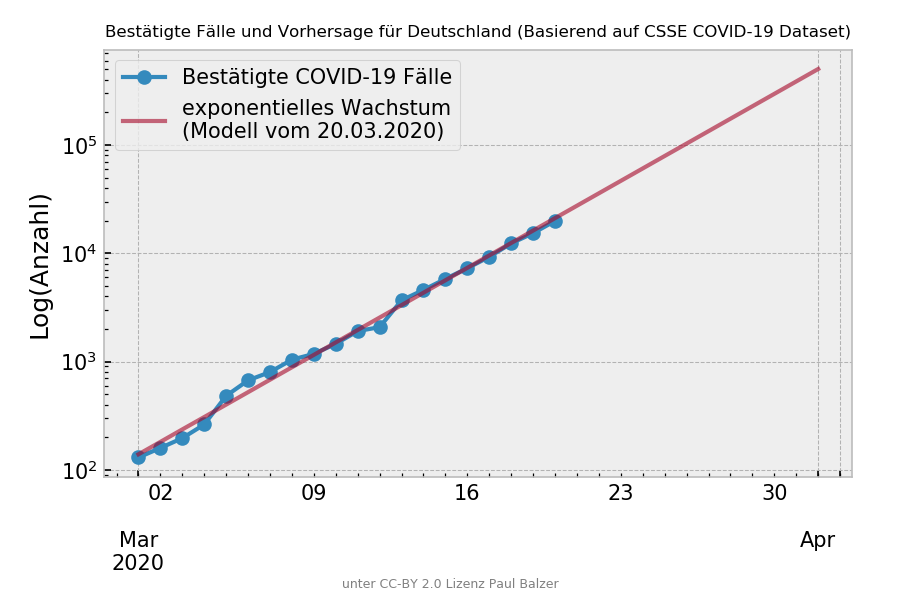
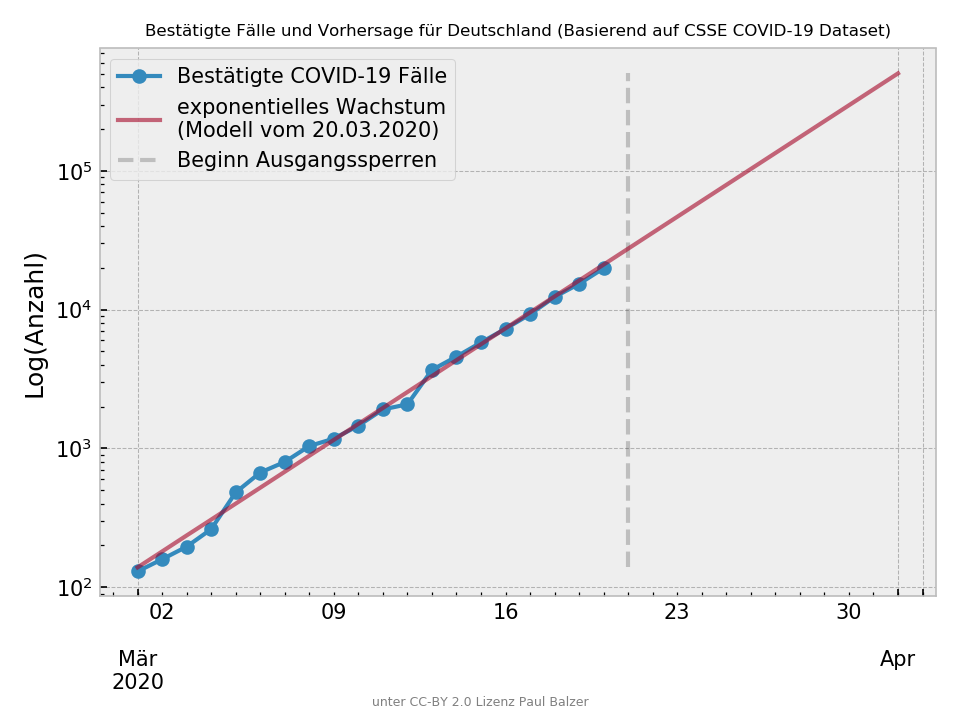
Add some comments

diff --git a/html/index.html b/html/index.html
@@ -8,7 +8,7 @@
   <head>
     
       <meta charset="utf-8">
-      <title>Covid19 Prediction Germany</title>
+      <title>COVID-19 Prediction Germany</title>
       
       
         
@@ -37,14 +37,14 @@
           
           
             
-              <div class="bk-root" id="5af60fb7-7af8-4ab5-880e-e86ff60d2383" data-root-id="1156"></div>
+              <div class="bk-root" id="c37efe90-3e36-4b83-9403-66e5fe52045d" data-root-id="1158"></div>
             
           
         
       
       
-        <script type="application/json" id="1325">
[1 lines of base64/hex data omitted]
+        <script type="application/json" id="1327">
[1 lines of base64/hex data omitted]
         </script>
         <script type="text/javascript">
           (function() {
@@ -53,8 +53,8 @@
                 (function(root) {
                   function embed_document(root) {
                     
-                  var docs_json = document.getElementById('1325').textContent;
-                  var render_items = [{"docid":"5bbed375-81aa-40b0-ad4d-a50926d264f3","roots":{"1156":"5af60fb7-7af8-4ab5-880e-e86ff60d2383"}}];
+                  var docs_json = document.getElementById('1327').textContent;
+                  var render_items = [{"docid":"0634cb76-eab7-42f7-9295-d7bd4a1cdeab","roots":{"1158":"c37efe90-3e36-4b83-9403-66e5fe52045d"}}];
                   root.Bokeh.embed.embed_items(docs_json, render_items);
                 
                   }

diff --git a/predict.py b/predict.py
@@ -27,6 +27,7 @@ url = 'https://raw.githubusercontent.com'
 url += '/CSSEGISandData/COVID-19'
 url += '/master/csse_covid_19_data/csse_covid_19_time_series'
 url += '/time_series_19-covid-Confirmed.csv'
+print('Downloading from %s' % url)
 
 
 # In[3]:
@@ -86,16 +87,47 @@ ger_confirmed['days'] = (ger_confirmed.index - ger_confirmed.index.min()).days
 ger_confirmed.head()
 
 
-# ## Prediction Model
+# ## Ausgangssperren
+# 
+# Am Wochenende 20.03./21.03.2020 haben einige Gemeinden und Städte Ausgangssperren verhängt (z.B. [Dresden](https://www.dresden.de/media/pdf/presseamt/Allgemeinverfuegung.pdf), Mitterteich, ganz Bayern usw). Daher werden wir uns das Datum mal merken.
 
 # In[11]:
+
+
+import time
+import datetime
+
+
+# In[12]:
+
+
+ausgangssperren_timestamp = datetime.date(2020, 3, 21)
+
+
+# In[13]:
+
+
+ausgangssperren_timestamp_epoch = time.mktime(ausgangssperren_timestamp.timetuple())*1000
+
+
+# ## Prediction Model
+# 
+# Ein exponentielles Wachstum (freie Ansteckung) verläuft nach:
+# 
+# $y = A e^{Bx}$
+# 
+# Wenn wir das logarithmieren mit dem Log zur Basis $e$, haben wir ein lineares Modell.
+# 
+# $\log_e(y) = B x + \log_e (A)$
+
+# In[14]:
 
 
 from sklearn.linear_model import LinearRegression
 import numpy as np
 
 
-# In[12]:
+# In[15]:
 
 
 X = ger_confirmed['days'].values.reshape(-1, 1)
@@ -105,46 +137,65 @@ logy = np.log(y)
 
 # ### Train
 
-# In[13]:
+# In[16]:
 
 
 clf = LinearRegression()
 clf.fit(X, logy)
 
 
-# In[14]:
+# In[17]:
 
 
 logy_pred = clf.predict(X)
+
+
+# Die mit dem linearen Modell vorhergesagten Werte sind im logarithmischen, müssen mit der $e^y$ noch zurück konvertiert werden.
+
+# In[18]:
+
+
 ger_confirmed['predicted'] = np.exp(logy_pred).astype('int')
 
 
-# In[15]:
+# In[19]:
 
 
 ger_confirmed.tail()
 
 
+# ### Modelparameter
+
+# In[20]:
+
+
+B = clf.coef_[0]
+A = np.exp(clf.intercept_)
+print('Modellparameter sind A=%.1f, B=%.3f' % (A, B))
+
+
 # ## Save the model for later use
 
-# In[16]:
+# In[21]:
 
 
 import pickle
 
 with open('%s-Germany-Covid19-Prediction-Model.pkl' % today.strftime('%Y-%m-%d'), 'wb') as f:
     pickle.dump(clf, f)
+    
+print('Saved the Model')
 
 
 # ## Future
 
-# In[17]:
+# In[22]:
 
 
 fd = 13 # days into the future
 
 
-# In[18]:
+# In[23]:
 
 
 # Create DataFrame in the Future
@@ -154,7 +205,7 @@ days_in_future = ger_confirmed.days[-1] + np.arange(1, fd)
 future = pd.DataFrame(data=days_in_future, index=dates, columns=['days'])
 
 
-# In[19]:
+# In[24]:
 
 
 ger_future = ger_confirmed.append(future, sort=True)
@@ -162,20 +213,20 @@ ger_future = ger_confirmed.append(future, sort=True)
 
 # ### Predict the Future
 
-# In[20]:
+# In[25]:
 
 
 X_future = ger_future['days'].values.reshape(-1, 1)
 
 
-# In[21]:
+# In[26]:
 
 
 logy_pred = clf.predict(X_future)
 ger_future['predicted'] = np.exp(logy_pred).astype('int')
 
 
-# In[22]:
+# In[27]:
 
 
 ger_future
@@ -183,18 +234,23 @@ ger_future
 
 # ## Future Plot
 
-# In[23]:
+# In[28]:
 
 
 title = 'Bestätigte Fälle und Vorhersage für Deutschland (Basierend auf CSSE COVID-19 Dataset)'
 
 
-# In[24]:
+# In[29]:
 
 
 ax = ger_future['confirmed'].plot(label='Bestätigte COVID-19 Fälle', marker='o')
 ax = ger_future['predicted'].plot(label='exponentielles Wachstum\n(Modell vom %s)' % today.strftime('%d.%m.%Y'),
                                   alpha=0.6, ax=ax)
+
+ax.vlines(ausgangssperren_timestamp,
+          ymin=ger_future.predicted.min(),
+          ymax=ger_future.predicted.max(),
+          linestyle='--', alpha=0.2, label='Beginn Ausgangssperren')
 
 ax.legend()
 ax.set_ylabel('Log(Anzahl)')
@@ -204,31 +260,33 @@ ax.annotate('unter CC-BY 2.0 Lizenz Paul Balzer', xy=(.5, 0.02), xycoords='figur
 
 plt.tight_layout()
 plt.savefig('./%s-Germany-Covid19-Prediction.png' % today.strftime('%Y-%m-%d'), dpi=150)
+print('Saved the Figure')
 
 
 # ## Export as Excel
 
-# In[25]:
+# In[30]:
 
 
 ger_future.to_excel('./%s-Germany-Covid19-Prediction.xlsx' % today.strftime('%Y-%m-%d'))
+print('Saved the Excel')
 
 
 # # Interactive Website
 # 
 # We are using Bokeh to export an interactive website
 
-# In[26]:
+# In[31]:
 
 
 from bokeh.plotting import figure
 from bokeh.models.formatters import DatetimeTickFormatter
-from bokeh.models import Div, HoverTool, BoxAnnotation
+from bokeh.models import Div, HoverTool, BoxAnnotation, Span
 from bokeh.layouts import column
 from bokeh.io import output_file, save
 
 
-# In[27]:
+# In[32]:
 
 
 p = figure(tools="hover,save,pan,box_zoom,reset,wheel_zoom",
@@ -250,9 +308,6 @@ p.xaxis.formatter=DatetimeTickFormatter(
     days="%A %d.%m.%Y",
 )
 
-# Legende
-p.legend.location = "top_left"
-
 # Daten-Zeitraum
 gray_box = BoxAnnotation(left=ger_confirmed.index[0],
                           right=ger_confirmed.index[-1],
@@ -267,13 +322,27 @@ p.select_one(HoverTool).tooltips = [
 p.select_one(HoverTool).formatters = {'x':'datetime'}
 p.select_one(HoverTool).mode = 'vline'
 
+# Vertical line for Ausgangssperren
+vline = Span(location=ausgangssperren_timestamp_epoch,
+             dimension='height', line_color='gray',
+             line_dash='dashed', line_width=3, name='Beginn Ausgangssperren')
+p.add_layout(vline)
+
+p.toolbar.autohide = True
+
+# Legende
+p.legend.location = "top_left"
+
 # Anmerkung
-div = Div(text="""Quellcode: <a href="https://github.com/balzer82/covid-germany-predictor">Covid Germany Predictor</a> unter CC-BY2.0 Lizenz on Github.""")
+div = Div(text="""Quellcode: <a href="https://github.com/balzer82/covid-germany-predictor">Covid Germany Predictor</a>
+            unter CC-BY2.0 Lizenz von Paul Balzer on Github.
+            Disclaimer: Ich bin kein Epidemiologe oder Virologe, also kein Experte!""")
 
 # Save
-output_file("./html/index.html", title='Covid19 Prediction Germany')
+output_file("./html/index.html", title='COVID-19 Prediction Germany')
 
 save(column(p, div, sizing_mode="stretch_both"))
+print('Saved the html')
 
 
 # CC-BY 2.0 Paul Balzer

diff --git a/README.md b/README.md
@@ -8,7 +8,7 @@ Siehe NRD Podcast mit Prof. Drosten [#18 - Die Wirksamkeit von Ausgangssperren i
 
 ## Datenbasis
 
-Die Daten werden aus dem [2019 Novel Coronavirus COVID-19 (2019-nCoV) Data Repository by Johns Hopkins CSSE](https://github.com/CSSEGISandData/COVID-19) geladen.
+Die Daten werden aus dem [2019 Novel Coronavirus COVID-19 (2019-nCoV) Data Repository by Johns Hopkins CSSE](https://github.com/CSSEGISandData/COVID-19) geladen. Mit den Ansteckungszahlen wird ein exponentielles Modell trainiert, welches die Daten optimal abbildet. Damit werden Vorhersagen zur Verbreitung in den nächsten Tagen getroffen.
 
 ## Usage
 
